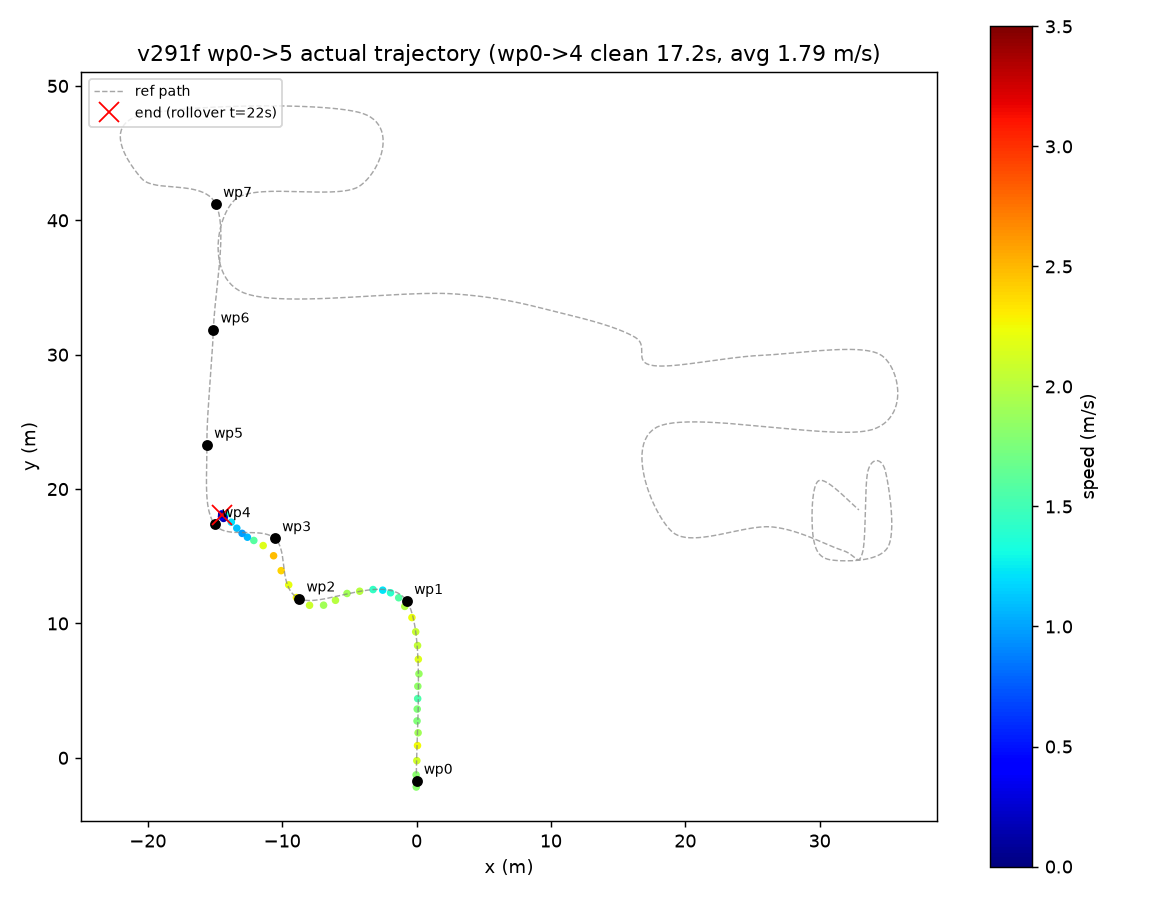
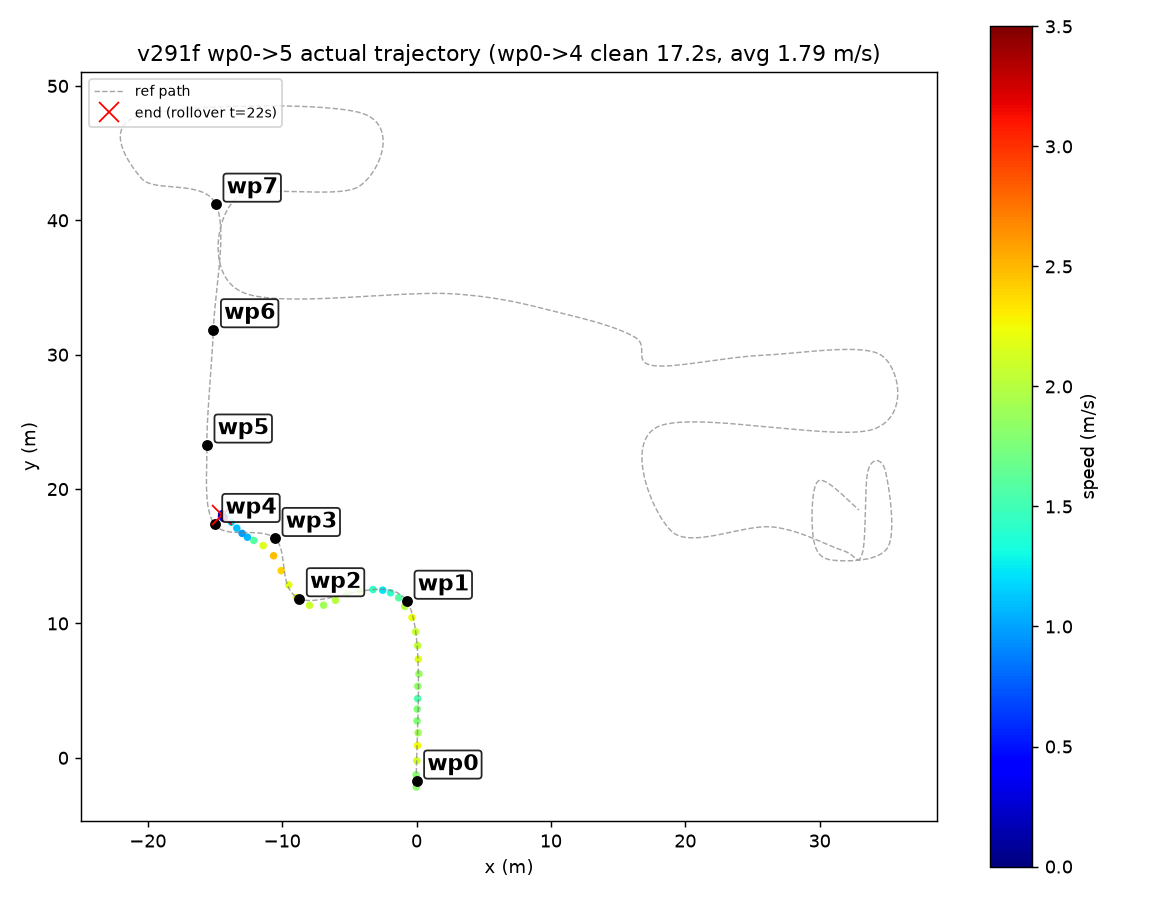
v293: viewer退出防段错误(os._exit); lidar高程图hfield叠加XML; xy图航点大标签

diff --git a/src/S10_sdk_deploy/scripts/cruise_vmc_noros.py b/src/S10_sdk_deploy/scripts/cruise_vmc_noros.py
@@ -769,13 +769,16 @@ def main():
           '连续超限最长 %.2fs / 累计 %.2fs%s' % (
               _max_tau_leg, _max_tau_wh, _over_worst, _over_total,
               '  [超0.5s不合格!]' if _over_worst > 0.5 else ''), flush=True)
+    if os.environ.get('VMC_TRAJ'):
+        np.save(os.environ['VMC_TRAJ'], np.array(traj))
     if _viewer is not None:
         try:
             _viewer.close()
         except Exception:
             pass
-    if os.environ.get('VMC_TRAJ'):
-        np.save(os.environ['VMC_TRAJ'], np.array(traj))
+        # v293: mujoco.viewer 在 WSLg 下正常退出会段错误，改用 os._exit
+        sys.stdout.flush()
+        os._exit(0)
 
 
 if __name__ == '__main__':
